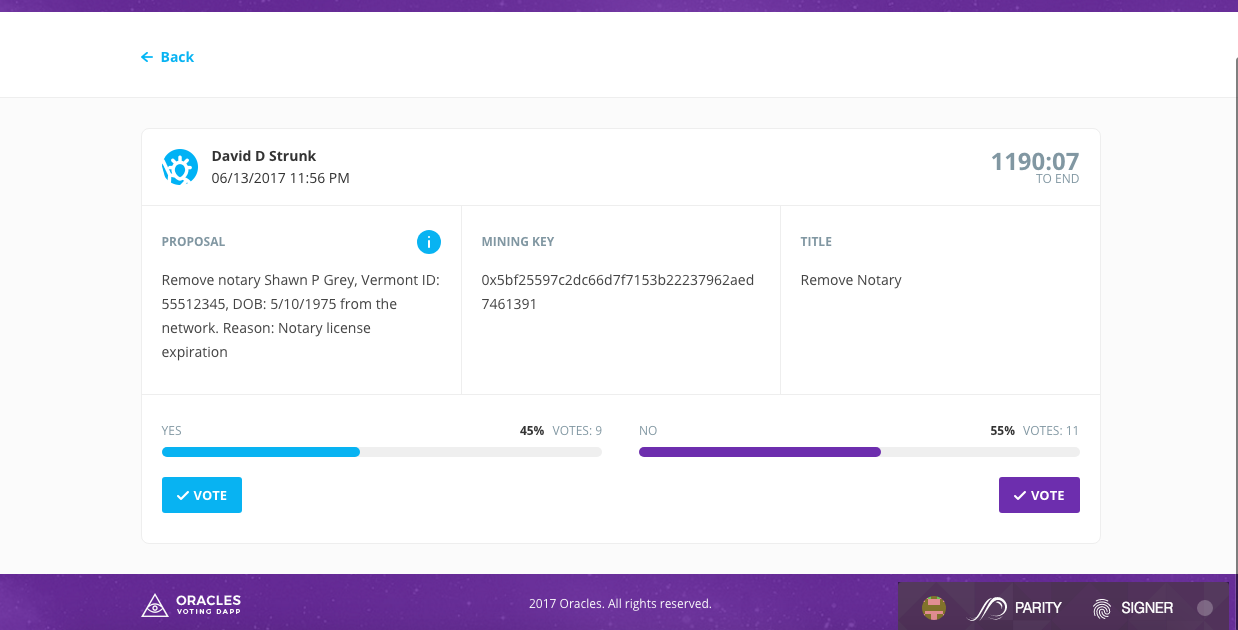
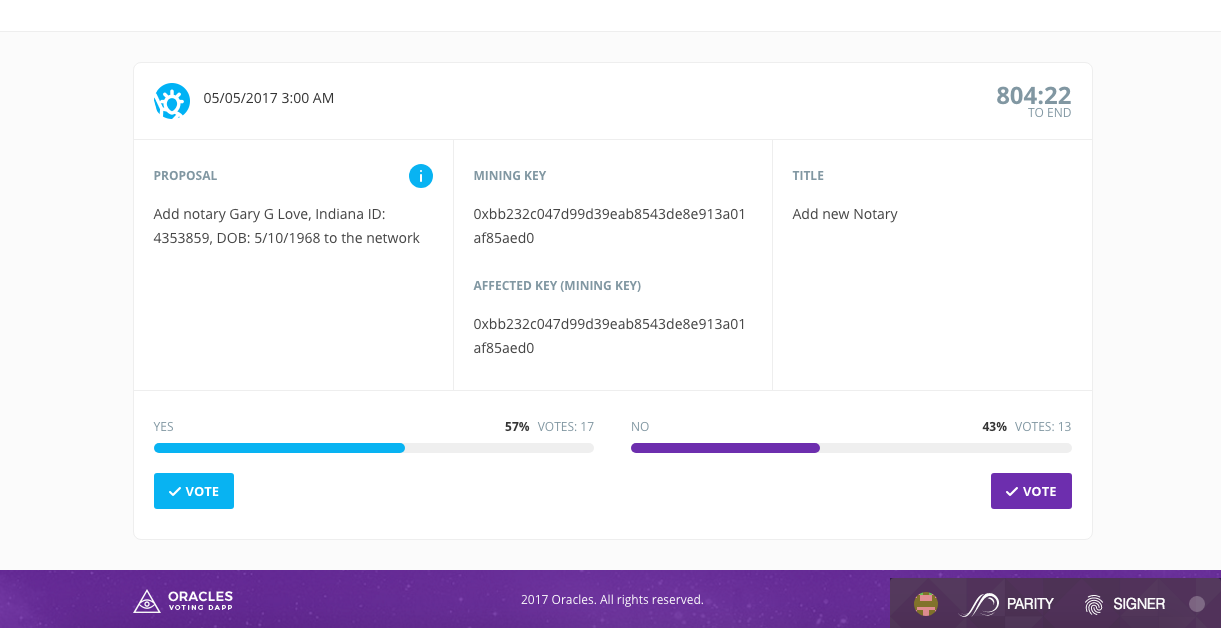
New contract definition: mining-payout keys pair storage is added; affected key and its type fields are added for voting dapp; It's closes #1

diff --git a/assets/stylesheets/index.css b/assets/stylesheets/index.css
@@ -1,1 +1,1 @@
[2 lines of base64/hex data omitted]

diff --git a/assets/javascripts/application.js b/assets/javascripts/application.js
@@ -514,7 +514,7 @@ function getBallots(api, func, acc, contractAddress, cb) {
 
 			var ballotsArrayOut = [];
 			var iasync = [];
-			var ballotDataCount = 10;
+			var ballotDataCount = 12;
 			for (var i = 0; i < ballotsArray.length; i++) {
 				iasync.push(0);
 				getBallotMemo(api, acc, ballotsArray[i], i, contractAddress, function(_i, resp) {
@@ -560,6 +560,16 @@ function getBallots(api, func, acc, contractAddress, cb) {
 				getBallotMiningKey(api, acc, ballotsArray[i], i, contractAddress, function(_i, resp) {
 					iasync[_i]++;
 					ballotsArrayOut = getBallotsPropertyCallback("miningKey", api, contractAddress, resp, _i, iasync, ballotsArray, ballotDataCount, ballotsArrayOut, cb);
+				});
+
+				getBallotAffectedKey(api, acc, ballotsArray[i], i, contractAddress, function(_i, resp) {
+					iasync[_i]++;
+					ballotsArrayOut = getBallotsPropertyCallback("affectedKey", api, contractAddress, resp, _i, iasync, ballotsArray, ballotDataCount, ballotsArrayOut, cb);
+				});
+
+				getBallotAffectedKeyType(api, acc, ballotsArray[i], i, contractAddress, function(_i, resp) {
+					iasync[_i]++;
+					ballotsArrayOut = getBallotsPropertyCallback("affectedKeyType", api, contractAddress, resp, _i, iasync, ballotsArray, ballotDataCount, ballotsArrayOut, cb);
 				});
 
 				getBallotOwner(api, acc, ballotsArray[i], i, contractAddress, function(_i, resp) {
@@ -642,6 +652,16 @@ function getBallotMiningKey(api, acc, ballotID, i, contractAddr, cb) {
 	getContractAddressDataFromAddressKey(api, acc, func, ballotID, i, contractAddr, cb);
 }
 
+function getBallotAffectedKey(api, acc, ballotID, i, contractAddr, cb) {
+	var func = "getBallotAffectedKey(uint256)";
+	getContractAddressDataFromAddressKey(api, acc, func, ballotID, i, contractAddr, cb);
+}
+
+function getBallotAffectedKeyType(api, acc, ballotID, i, contractAddr, cb) {
+	var func = "getBallotAffectedKeyType(uint256)";
+	getContractIntDataFromAddressKey(api, acc, func, ballotID, i, contractAddr, cb);
+}
+
 function getBallotOwner(api, acc, ballotID, i, contractAddr, cb) {
 	var func = "getBallotOwner(uint256)";
 	getContractStringDataFromAddressKey(api, acc, func, ballotID, i, contractAddr, cb);
@@ -649,7 +669,7 @@ function getBallotOwner(api, acc, ballotID, i, contractAddr, cb) {
 
 function getBallotData(api, acc, ballotID, contractAddress, cb) {
 	var iasync = 0;
-	var ballotDataCount = 10;
+	var ballotDataCount = 12;
 	var ballot = {};
 	getBallotMemo(api, acc, ballotID, null, contractAddress, function(_i, resp) {
 		iasync++;
@@ -694,6 +714,16 @@ function getBallotData(api, acc, ballotID, contractAddress, cb) {
 	getBallotMiningKey(api, acc, ballotID, null, contractAddress, function(_i, resp) {
 		iasync++;
 		ballot = getBallotPropertyCallback("miningKey", api, contractAddress, ballotID, resp, iasync, ballot, ballotDataCount, cb);
+	});
+
+	getBallotAffectedKey(api, acc, ballotID, null, contractAddress, function(_i, resp) {
+		iasync++;
+		ballot = getBallotPropertyCallback("affectedKey", api, contractAddress, ballotID, resp, iasync, ballot, ballotDataCount, cb);
+	});
+
+	getBallotAffectedKeyType(api, acc, ballotID, null, contractAddress, function(_i, resp) {
+		iasync++;
+		ballot = getBallotPropertyCallback("affectedKeyType", api, contractAddress, ballotID, resp, iasync, ballot, ballotDataCount, cb);
 	});
 
 	getBallotOwner(api, acc, ballotID, null, contractAddress, function(_i, resp) {
@@ -747,6 +777,22 @@ function ballotViewObject(ballotID, ballotPropsObj, isVotingEnabled) {
   //miningKey
   var miningKey = ballotPropsObj["miningKey"];
   if (miningKey.length > 40) miningKey = "0x" + miningKey.substr(miningKey.length - 40);
+  //affectedKey
+  var affectedKey = ballotPropsObj["affectedKey"];
+  if (affectedKey.length > 40) affectedKey = "0x" + affectedKey.substr(affectedKey.length - 40);
+  //affectedKeyType
+  var affectedKeyType;
+  switch(ballotPropsObj["affectedKeyType"]) {
+    case 0:
+      affectedKeyType = "mining key";
+      break;
+    case 1:
+      affectedKeyType = "voting key";
+      break;
+    case 2:
+      affectedKeyType = "payout key";
+      break;
+  }
   //time to start/end
   var timeToVotingStart = getDateDiff(Math.floor(Date.now() / 1000), parseInt(ballotPropsObj["votingStart"]));
   var timeToVotingEnd = getDateDiff(Math.floor(Date.now() / 1000), parseInt(ballotPropsObj["votingEnd"]));
@@ -797,6 +843,10 @@ function ballotViewObject(ballotID, ballotPropsObj, isVotingEnabled) {
               <p class="vote-body-title">Mining key</p>
               <p class="vote-body-description">
                 ` + miningKey + `
+              </p>
+              <p class="vote-body-title-secondary">Affected key (` + affectedKeyType + `)</p>
+              <p class="vote-body-description">
+                ` + affectedKey + `
               </p>
             </div>
             <div class="vote-body-i">
@@ -937,14 +987,14 @@ $(function() {
 				var ballotViewObj = {
 					ballotID: generateBallotID(),
 					memo: $("#memo").val(),
-					miningKey: $("#key").val(),
-					affectedKey: $("#key").val(),
-					affectedKeyType: 0,
+					miningKey: $("#mining-key").val(),
+					affectedKey: $("#affected-key").val(),
+					affectedKeyType: parseInt($("#affected-key-type").val()),
 					owner: votingKey,
 					addAction: $("input[name=type]:checked").val()
 				};
 				var validatorViewObj = {
-					miningKey: $("#key").val(),
+					miningKey: $("#mining-key").val(),
 					fullName:  $("#full-name").val(),
 					streetName: $("#address").val(),
 					state: $("#state").val(),
@@ -952,10 +1002,11 @@ $(function() {
 					licenseID: $("#license-id").val(),
 					licenseExpiredAt: new Date($("#license-expiration").val()).getTime() / 1000,
 				};
-				var isAddress = web3.isAddress($("#key").val());
-				if (!isAddress) {
+				var isAddress1 = web3.isAddress($("#mining-key").val());
+				var isAddress2 = web3.isAddress($("#affected-key").val());
+				if (!isAddress1 || !isAddress2) {
 					$(".loading-container").hide();
-					showAlert(null, "Incorrect mining key");
+					showAlert(null, "One or both keys are incorrect");
 					return;
 				}
 

diff --git a/assets/javascripts/application/getBallotsData.js b/assets/javascripts/application/getBallotsData.js
@@ -43,6 +43,16 @@ function getBallotMiningKey(api, acc, ballotID, i, contractAddr, cb) {
 	getContractAddressDataFromAddressKey(api, acc, func, ballotID, i, contractAddr, cb);
 }
 
+function getBallotAffectedKey(api, acc, ballotID, i, contractAddr, cb) {
+	var func = "getBallotAffectedKey(uint256)";
+	getContractAddressDataFromAddressKey(api, acc, func, ballotID, i, contractAddr, cb);
+}
+
+function getBallotAffectedKeyType(api, acc, ballotID, i, contractAddr, cb) {
+	var func = "getBallotAffectedKeyType(uint256)";
+	getContractIntDataFromAddressKey(api, acc, func, ballotID, i, contractAddr, cb);
+}
+
 function getBallotOwner(api, acc, ballotID, i, contractAddr, cb) {
 	var func = "getBallotOwner(uint256)";
 	getContractStringDataFromAddressKey(api, acc, func, ballotID, i, contractAddr, cb);
@@ -50,7 +60,7 @@ function getBallotOwner(api, acc, ballotID, i, contractAddr, cb) {
 
 function getBallotData(api, acc, ballotID, contractAddress, cb) {
 	var iasync = 0;
-	var ballotDataCount = 10;
+	var ballotDataCount = 12;
 	var ballot = {};
 	getBallotMemo(api, acc, ballotID, null, contractAddress, function(_i, resp) {
 		iasync++;
@@ -95,6 +105,16 @@ function getBallotData(api, acc, ballotID, contractAddress, cb) {
 	getBallotMiningKey(api, acc, ballotID, null, contractAddress, function(_i, resp) {
 		iasync++;
 		ballot = getBallotPropertyCallback("miningKey", api, contractAddress, ballotID, resp, iasync, ballot, ballotDataCount, cb);
+	});
+
+	getBallotAffectedKey(api, acc, ballotID, null, contractAddress, function(_i, resp) {
+		iasync++;
+		ballot = getBallotPropertyCallback("affectedKey", api, contractAddress, ballotID, resp, iasync, ballot, ballotDataCount, cb);
+	});
+
+	getBallotAffectedKeyType(api, acc, ballotID, null, contractAddress, function(_i, resp) {
+		iasync++;
+		ballot = getBallotPropertyCallback("affectedKeyType", api, contractAddress, ballotID, resp, iasync, ballot, ballotDataCount, cb);
 	});
 
 	getBallotOwner(api, acc, ballotID, null, contractAddress, function(_i, resp) {

diff --git a/assets/javascripts/application/getBallotsView.js b/assets/javascripts/application/getBallotsView.js
@@ -32,6 +32,22 @@ function ballotViewObject(ballotID, ballotPropsObj, isVotingEnabled) {
   //miningKey
   var miningKey = ballotPropsObj["miningKey"];
   if (miningKey.length > 40) miningKey = "0x" + miningKey.substr(miningKey.length - 40);
+  //affectedKey
+  var affectedKey = ballotPropsObj["affectedKey"];
+  if (affectedKey.length > 40) affectedKey = "0x" + affectedKey.substr(affectedKey.length - 40);
+  //affectedKeyType
+  var affectedKeyType;
+  switch(ballotPropsObj["affectedKeyType"]) {
+    case 0:
+      affectedKeyType = "mining key";
+      break;
+    case 1:
+      affectedKeyType = "voting key";
+      break;
+    case 2:
+      affectedKeyType = "payout key";
+      break;
+  }
   //time to start/end
   var timeToVotingStart = getDateDiff(Math.floor(Date.now() / 1000), parseInt(ballotPropsObj["votingStart"]));
   var timeToVotingEnd = getDateDiff(Math.floor(Date.now() / 1000), parseInt(ballotPropsObj["votingEnd"]));
@@ -82,6 +98,10 @@ function ballotViewObject(ballotID, ballotPropsObj, isVotingEnabled) {
               <p class="vote-body-title">Mining key</p>
               <p class="vote-body-description">
                 ` + miningKey + `
+              </p>
+              <p class="vote-body-title-secondary">Affected key (` + affectedKeyType + `)</p>
+              <p class="vote-body-description">
+                ` + affectedKey + `
               </p>
             </div>
             <div class="vote-body-i">

diff --git a/assets/javascripts/application/getBallots.js b/assets/javascripts/application/getBallots.js
@@ -28,7 +28,7 @@ function getBallots(api, func, acc, contractAddress, cb) {
 
 			var ballotsArrayOut = [];
 			var iasync = [];
-			var ballotDataCount = 10;
+			var ballotDataCount = 12;
 			for (var i = 0; i < ballotsArray.length; i++) {
 				iasync.push(0);
 				getBallotMemo(api, acc, ballotsArray[i], i, contractAddress, function(_i, resp) {
@@ -74,6 +74,16 @@ function getBallots(api, func, acc, contractAddress, cb) {
 				getBallotMiningKey(api, acc, ballotsArray[i], i, contractAddress, function(_i, resp) {
 					iasync[_i]++;
 					ballotsArrayOut = getBallotsPropertyCallback("miningKey", api, contractAddress, resp, _i, iasync, ballotsArray, ballotDataCount, ballotsArrayOut, cb);
+				});
+
+				getBallotAffectedKey(api, acc, ballotsArray[i], i, contractAddress, function(_i, resp) {
+					iasync[_i]++;
+					ballotsArrayOut = getBallotsPropertyCallback("affectedKey", api, contractAddress, resp, _i, iasync, ballotsArray, ballotDataCount, ballotsArrayOut, cb);
+				});
+
+				getBallotAffectedKeyType(api, acc, ballotsArray[i], i, contractAddress, function(_i, resp) {
+					iasync[_i]++;
+					ballotsArrayOut = getBallotsPropertyCallback("affectedKeyType", api, contractAddress, resp, _i, iasync, ballotsArray, ballotDataCount, ballotsArrayOut, cb);
 				});
 
 				getBallotOwner(api, acc, ballotsArray[i], i, contractAddress, function(_i, resp) {

diff --git a/assets/javascripts/application/index.js b/assets/javascripts/application/index.js
@@ -103,14 +103,14 @@ $(function() {
 				var ballotViewObj = {
 					ballotID: generateBallotID(),
 					memo: $("#memo").val(),
-					miningKey: $("#key").val(),
-					affectedKey: $("#key").val(),
-					affectedKeyType: 0,
+					miningKey: $("#mining-key").val(),
+					affectedKey: $("#affected-key").val(),
+					affectedKeyType: parseInt($("#affected-key-type").val()),
 					owner: votingKey,
 					addAction: $("input[name=type]:checked").val()
 				};
 				var validatorViewObj = {
-					miningKey: $("#key").val(),
+					miningKey: $("#mining-key").val(),
 					fullName:  $("#full-name").val(),
 					streetName: $("#address").val(),
 					state: $("#state").val(),
@@ -118,10 +118,11 @@ $(function() {
 					licenseID: $("#license-id").val(),
 					licenseExpiredAt: new Date($("#license-expiration").val()).getTime() / 1000,
 				};
-				var isAddress = web3.isAddress($("#key").val());
-				if (!isAddress) {
+				var isAddress1 = web3.isAddress($("#mining-key").val());
+				var isAddress2 = web3.isAddress($("#affected-key").val());
+				if (!isAddress1 || !isAddress2) {
 					$(".loading-container").hide();
-					showAlert(null, "Incorrect mining key");
+					showAlert(null, "One or both keys are incorrect");
 					return;
 				}
 

diff --git a/newBallot.html b/newBallot.html
@@ -22,10 +22,15 @@
         and a reason.
       </div>
       <label for="key">Mining key</label>
-      <input type="text" id="key">
-      <div class="new-ballot-description">
-        Affected mining key
-      </div>
+      <input type="text" id="mining-key">
+      <label for="affected-key-type">Affected key type</label>
+      <select type="text" id="affected-key-type" class="key-select">
+        <option name="affected-key-type-select" value="0">mining key</option>
+        <option name="affected-key-type-select" value="1">voting key</option>
+        <option name="affected-key-type-select" value="2" selected>payout key</option>
+      </select>
+      <label for="affected-key">Affected key</label>
+      <input type="text" id="affected-key">
       <input type="radio" name="type" id="type_add" value=1 checked>
       <label class="radio" for="type_add">Add</label>
       <input type="radio" name="type" id="type_remove" value=0>

diff --git a/assets/stylesheets/index/choose-key.scss b/assets/stylesheets/index/choose-key.scss
@@ -37,28 +37,31 @@
   }
 
   select {
-    outline: none;
-    font-family: 'Open Sans', sans-serif;
-  }
-
-  select {
-    transition: 0.3s border-color;
-    width: 100%;
-    border-radius: 3px;
-    box-sizing: border-box;
-    border: 1px solid #eee;
-
-    &:focus {
-      border-color: #08b3f2;
-    }
-  }
-
-  select {
-    padding: 0 15px;
-    height: 36px;
-    width: 380px;
     font-size: 14px;
-    background: #fff;
   }
+}
 
+select {
+  outline: none;
+  font-family: 'Open Sans', sans-serif;
+}
+
+select {
+  transition: 0.3s border-color;
+  width: 100%;
+  border-radius: 3px;
+  box-sizing: border-box;
+  border: 1px solid #eee;
+
+  &:focus {
+    border-color: #08b3f2;
+  }
+}
+
+select {
+  padding: 0 15px;
+  height: 36px;
+  width: 380px;
+  font-size: 11px;
+  background: #fff;
 }

diff --git a/assets/stylesheets/index/vote.scss b/assets/stylesheets/index/vote.scss
@@ -28,13 +28,22 @@
       }
     }
 
-    &-title {
+    %title {
       position: relative;
       margin-bottom: 20px;
       color: #8197a2;
       text-transform: uppercase;
       font-size: 12px;
       font-weight: bold;
+    }
+
+    &-title {
+      @extend %title;
+
+      &-secondary {
+        @extend %title;
+        margin-top: 30px;
+      }
     }
 
     &-description {
